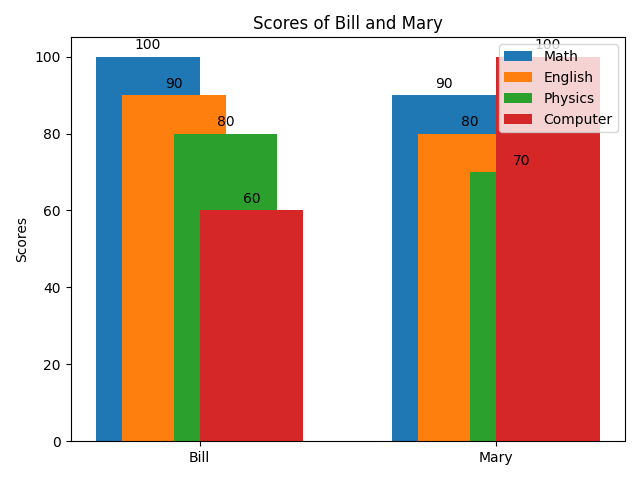
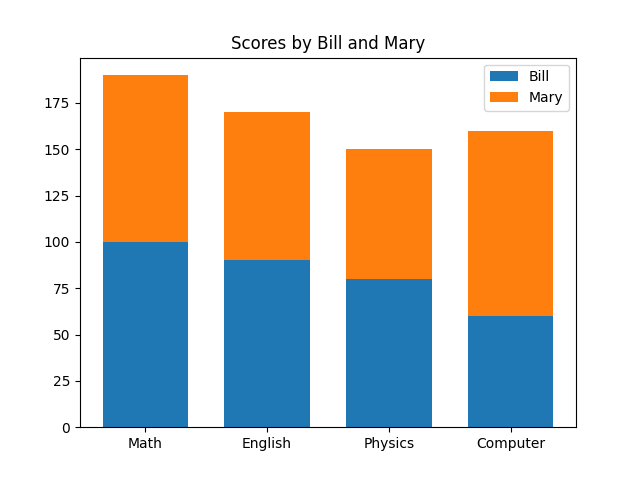
remake real code and create graph png

diff --git a/main.py b/main.py
@@ -1,4 +1,3 @@
-import numpy as np
 import matplotlib.pyplot as plt
 
 data1 = [100, 90, 80, 60]
@@ -12,41 +11,14 @@ fig, ax = plt.subplots()
 # Make your code
 # ******************************
 
-datab = []
-for i in range(4):
-    subjectrow = [labels[i], data1[i], data2[i]]
-    datab.append(subjectrow)
+width = 0.7       # the width of the bars: can also be len(x) sequence
 
-x = np.arange(len(names))  # the label locations
-width = 0.35  # the width of the bars
+ax.bar(labels, data1, width, label= names[0])
+ax.bar(labels, data2, width, bottom=data1, label = names[1])
 
-# using dist from edges and subject number index
-def makebarm(num, subj): 
-    return ax.bar(x - width/(2*num), datab[subj][1:], width, label = datab[subj][0])
-
-# copy of function for making bar right of center to go right, unsure of parsing so unfortunately make a new one with just - -> +
-def makebarp(num, subj): 
-    return ax.bar(x + width/(2*num), datab[subj][1:], width, label = datab[subj][0])
-
-#each subjects bars added
-rects1 = makebarm(1, 0)
-rects2 = makebarm(2, 1)
-rects3 = makebarp(2, 2)
-rects4 = makebarp(1, 3)
-
-# Add some text for labels, title and custom x-axis tick labels, etc.
-ax.set_ylabel('Scores')
-ax.set_title(f'Scores of {names[0]} and {names[1]}')
-ax.set_xticks(x, names)
+ax.set_title(f'Scores by {names[0]} and {names[1]}')
 ax.legend()
 
-ax.bar_label(rects1, padding=3)
-ax.bar_label(rects2, padding=3)
-ax.bar_label(rects3, padding=3)
-ax.bar_label(rects4, padding=3)
-
-fig.tight_layout()
-
-plt.show()
+#plt.show()
 
 fig.savefig('A10.png')

diff --git a/altcode.py b/altcode.py
@@ -1,0 +1,46 @@
+import numpy as np
+import matplotlib.pyplot as plt
+
+data1 = [100, 90, 80, 60]
+data2 = [90, 80, 70, 100]
+labels = ['Math', 'English', 'Physics', 'Computer']
+names = ['Bill', 'Mary']
+
+datab = []
+for i in range(4):
+    subjectrow = [labels[i], data1[i], data2[i]]
+    datab.append(subjectrow)
+
+x = np.arange(len(names))  # the label locations
+width = 0.35 / 2  # the width of the bars
+
+# using dist from edges and subject number index
+def makebarm(num, subj): 
+    return ax.bar(x - width*num, datab[subj][1:], width, label = datab[subj][0])
+
+# copy of function for making bar right of center to go right, unsure of parsing so unfortunately make a new one with just - -> +
+def makebarp(num, subj): 
+    return ax.bar(x + width*num, datab[subj][1:], width, label = datab[subj][0])
+
+#each subjects bars added
+rects1 = makebarm(1.5, 0)
+rects2 = makebarm(.5, 1)
+rects3 = makebarp(.5, 2)
+rects4 = makebarp(1.5, 3)
+
+# Add some text for labels, title and custom x-axis tick labels, etc.
+ax.set_ylabel('Scores')
+ax.set_title(f'Scores of {names[0]} and {names[1]}')
+ax.set_xticks(x, names)
+ax.legend()
+
+ax.bar_label(rects1, padding=3)
+ax.bar_label(rects2, padding=3)
+ax.bar_label(rects3, padding=3)
+ax.bar_label(rects4, padding=3)
+
+fig.tight_layout()
+
+plt.show()
+
+fig.savefig('altgraph.png')
